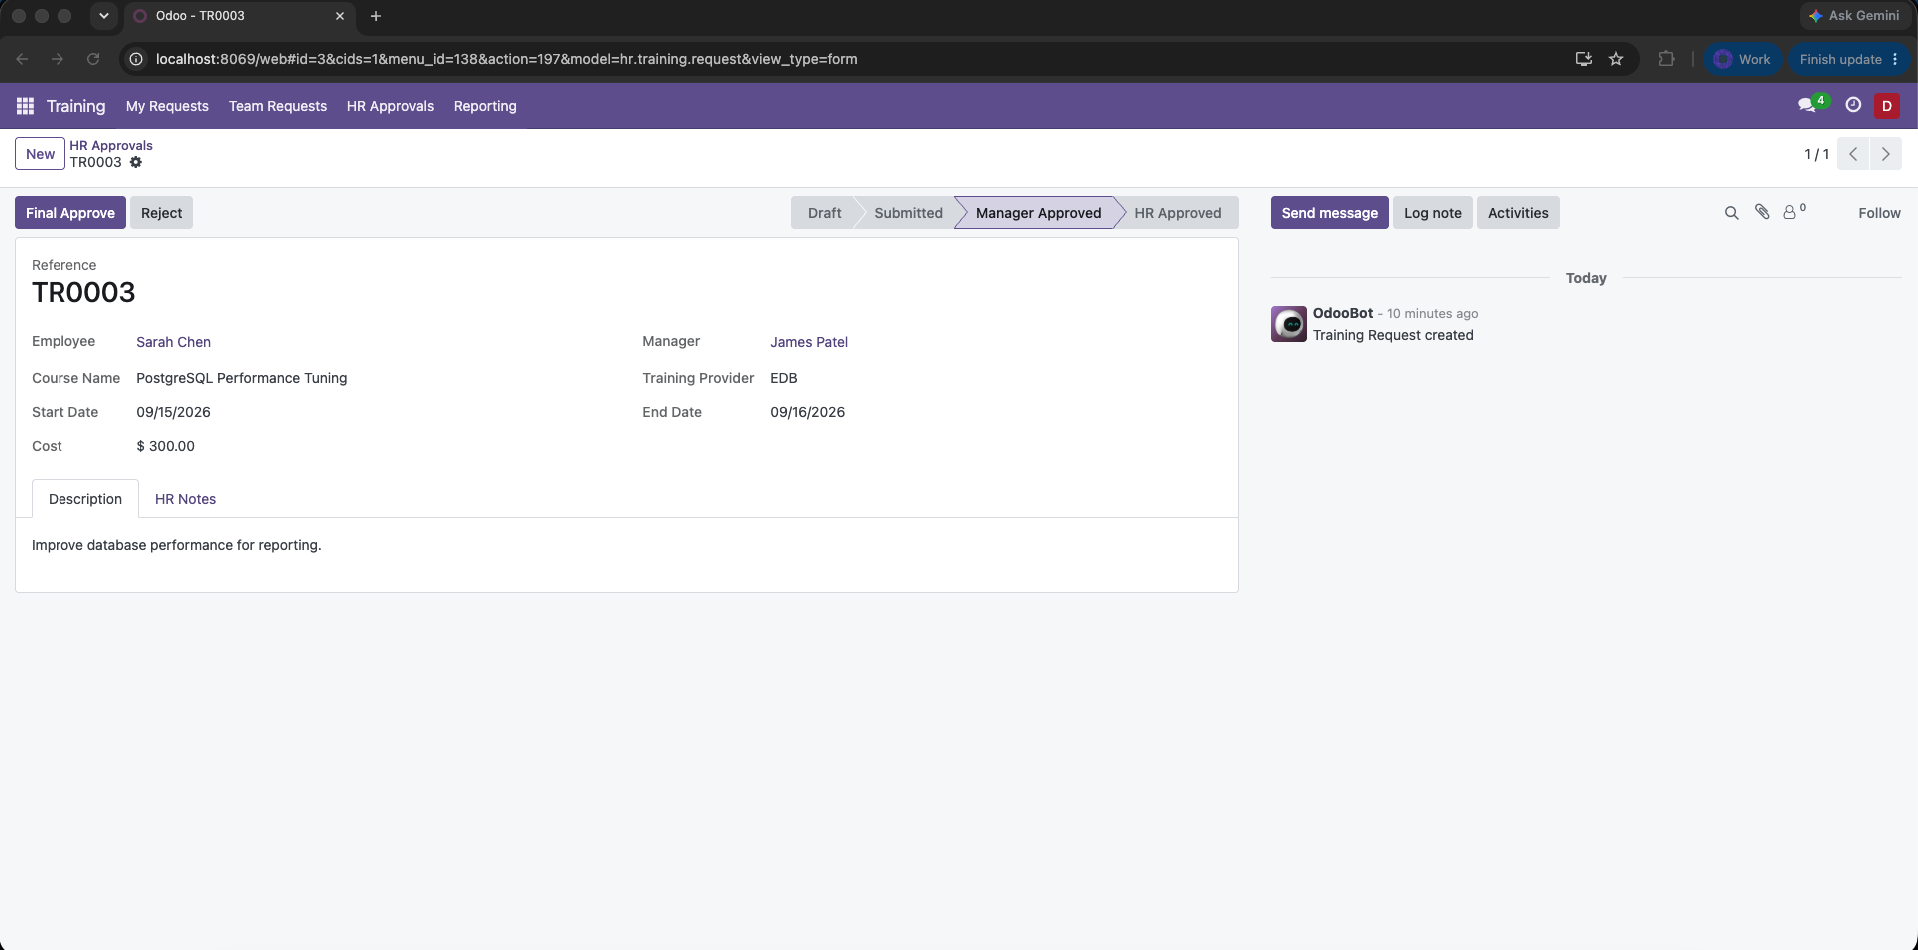
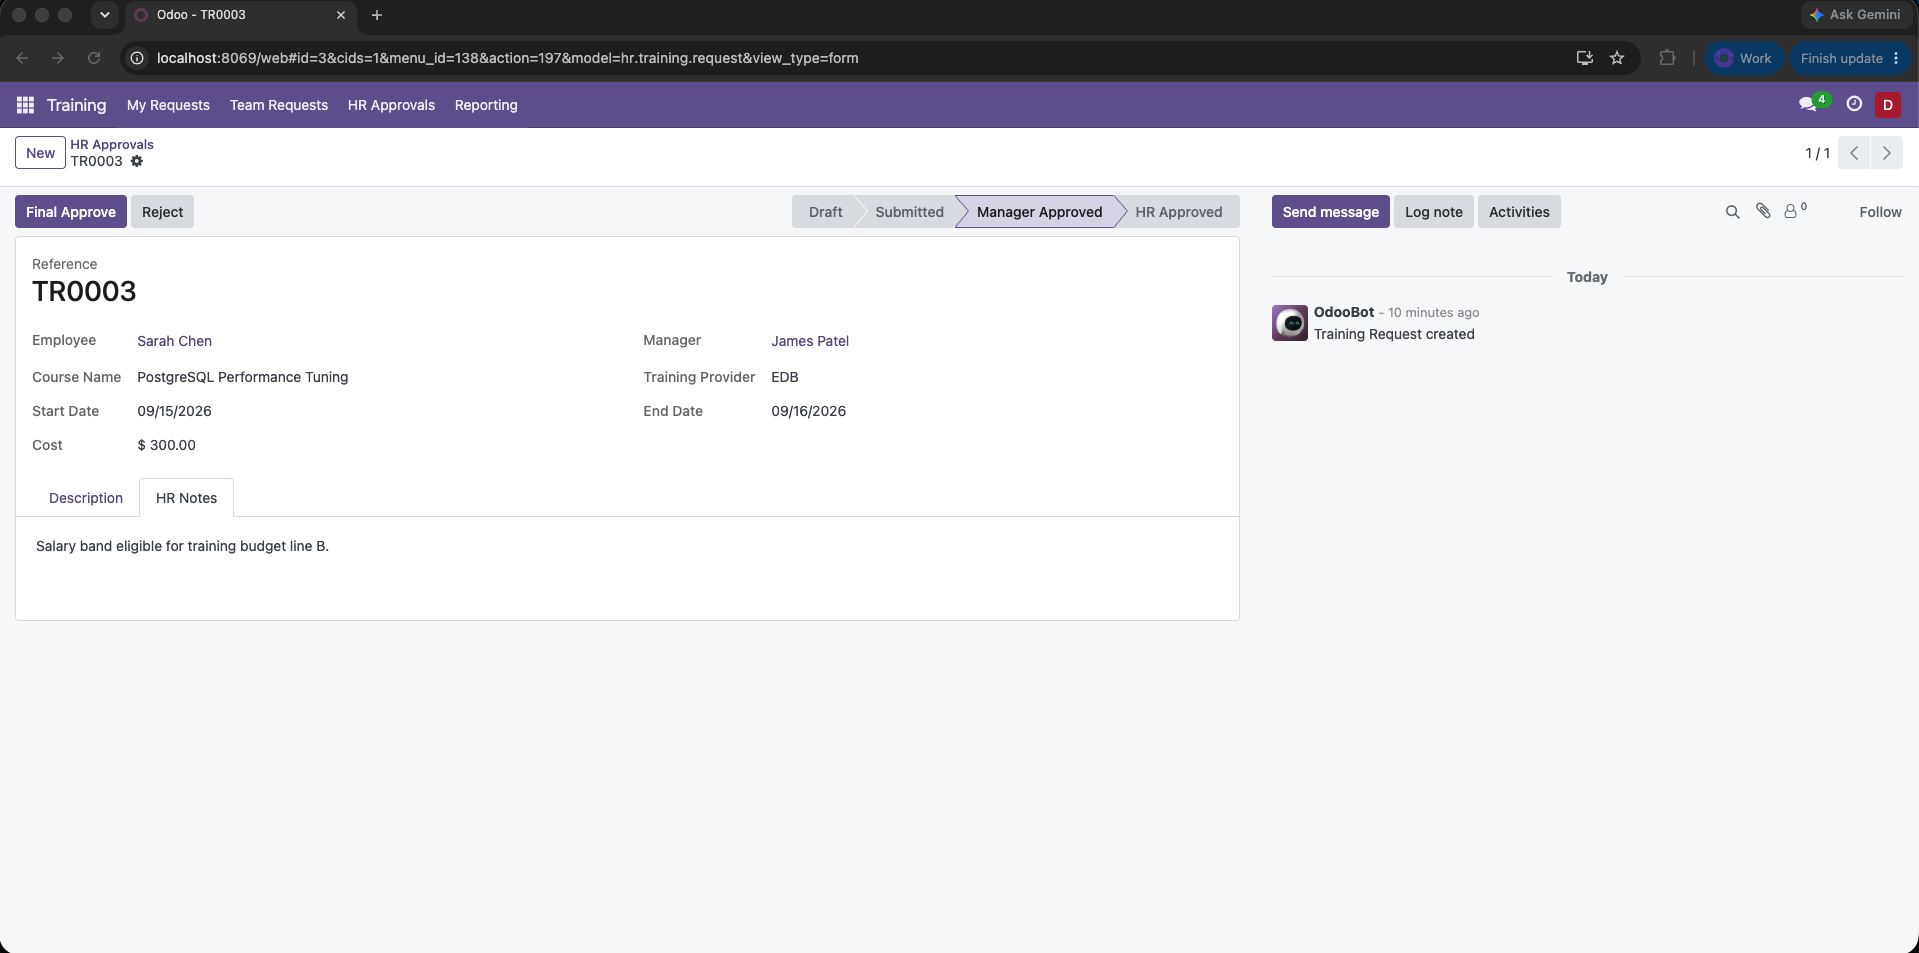
docs: show the HR Notes tab open with its content in the HR screenshot

diff --git a/README.md b/README.md
@@ -32,7 +32,7 @@ manager's own report, still no HR Notes tab.
 ![Manager submitted view](docs/02-manager-submitted.png)
 
 **HR approver, manager-approved stage** - Final Approve / Reject, and the extra
-**HR Notes** tab that only this role can see.
+**HR Notes** tab (open here) that only this role can see or edit.
 
 ![HR approver view](docs/03-hr-manager-approved.png)
 
